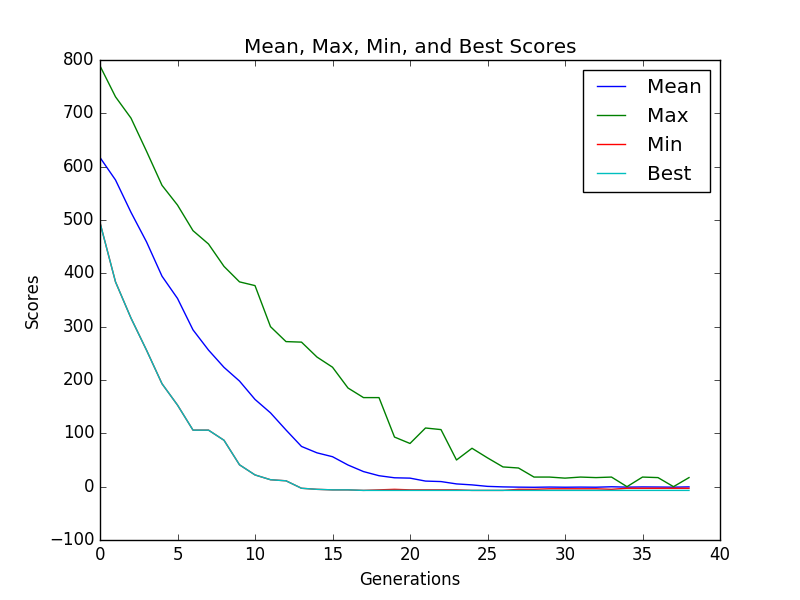
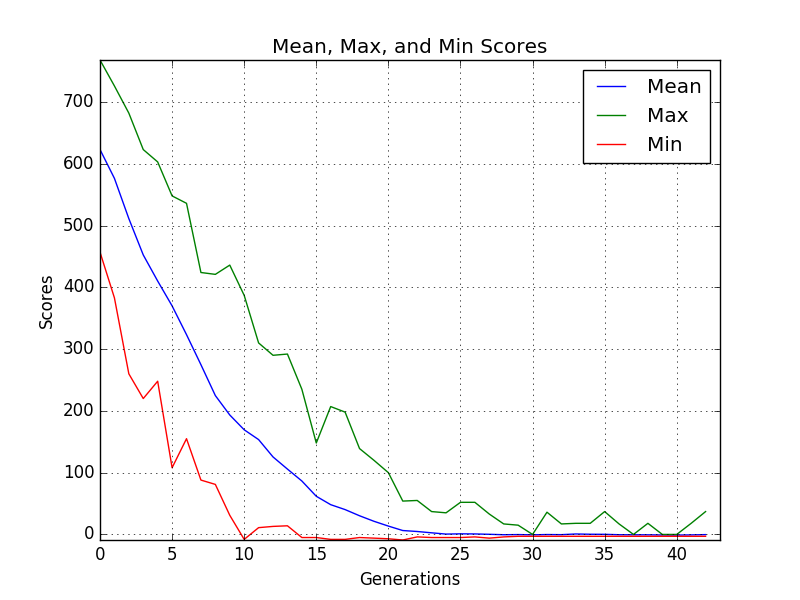
histograms and bar charts

diff --git a/Statistics.py b/Statistics.py
@@ -8,35 +8,58 @@ import matplotlib
 matplotlib.use('Agg')
 import matplotlib.pyplot as plt
 from GeneticAlgorithm import runit
+from Data import Data
 
-def sampler(test,runs=10):
+def sampler(test):
     _mean = []
     _max = []
     _min = []
     _best = []
     _times = []
+    _scores = []
     run_times, score_watch, best_perc = runit(test)
     for run_time, scores in zip(run_times,score_watch):
         _times.append(run_time)
         _mean.append(scores[2])
         _max.append(scores[3])
         _min.append(scores[1])
-    return _times, _mean, _max, _min, _best
+        _best.append(scores[0])
+        _scores.append(scores[4])
+    return _times, _mean, _max, _min, _best,_scores, best_perc
 
-def scatter(test,runs,prefix):
-    _times, _mean, _max, _min, _best = sampler(test,runs)
+def scatter(test):
+    _times, _mean, _max, _min, _best = sampler(test)
+    plt.figure()
     plt.plot(range(len(_times)),_mean)
     plt.plot(range(len(_times)),_max)
     plt.plot(range(len(_times)),_min)
-    plt.plot(range(len(_times)),_best)
-    plt.legend(["Mean","Max","Min","Best"])
-    plt.title("Mean, Max, Min, and Best Scores")
+    plt.xlim([0,len(_times)])
+    plt.ylim([min(_min),max(_max)])
+    plt.legend(["Mean","Max","Min"])
+    plt.title("Mean, Max, and Min Scores ({0})".format(test.upper()))
     plt.xlabel("Generations")
     plt.ylabel("Scores")
-    plt.savefig("scatter.png")
+    plt.grid(True)
+    plt.savefig("scatter_{0}.png".format(test))
+    plt.close()
 
-def score_histogram():
-    return
+def histogram(test):
+    _times, _mean, _max, _min, _best, _scores, best_perc = sampler(test)
+    f,a = plt.subplots(2,2)
+    a = a.ravel()
+    data = []
+    titles = []
+    for i in range(0,len(_times),len(_times)/4):
+        data.append(_scores[i])
+        titles.append("Generation {0}".format(i))
+    for idx,ax in enumerate(a):
+        ax.hist(data[idx])
+        ax.set_xlim([min(_min),max(_max)])
+        ax.set_title(titles[idx])
+        ax.set_xlabel("Density")
+        ax.set_ylabel("Scores")
+    plt.tight_layout()
+    plt.savefig("histogram_{0}.png".format(test))
 
 def vary_mutation():
     return
@@ -44,14 +67,53 @@ def vary_mutation():
 def vary_crossover():
     return
 
-def percentage_per_size():
-    return
+def percentage_bar(tests,runs=5,width=.35):
+    string_size = []
+    avg_perc = []
+    plt.figure()
+    for test in tests:
+        percs = []
+        string_size.append(len(Data("{0}.txt".format(test.lower())).getSequence()))
+        for run in xrange(runs):
+            _times, _mean, _max, _min, _best, _scores, perc = sampler(test)
+            percs.append(object)
+        avg_perc.append(mean(percs))
+        errors.append(numpy.std(percs))
+    plt.bar(range(len(string_size)),avg_perc, width, color='r', yerr=menStd)
+    plt.title("Accuracy (Percentage) vs. RNA Length")
+    plt.xticks(ind + width)
+    plt.xticklabels(string_size)
+    plt.ylabel("Percentage")
+    plt.xlabel("RNA Length")
 
-def time_with_size():
-    return
+def time_bar(tests,runs=5,width=.35):
+    string_size = []
+    avg_perc = []
+    plt.figure()
+    for test in tests:
+        percs = []
+        string_size.append(len(Data("{0}.txt".format(test.lower())).getSequence()))
+        for run in xrange(runs):
+            _times, _mean, _max, _min, _best, _scores, perc = sampler(test)
+            percs.append(object)
+        avg_perc.append(mean(percs))
+        errors.append(numpy.std(percs))
+    plt.bar(range(len(string_size)),avg_perc, width, color='r', yerr=menStd)
+    plt.title("Accuracy (Percentage) vs. RNA Length")
+    plt.xticks(ind + width)
+    plt.xticklabels(string_size)
+    plt.ylabel("Percentage")
+    plt.xlabel("RNA Length")
+
 
 def all_stats():
-    scatter("test6", 10, "test6")
+    tests = ["test6","test7","test4","test5"]
+    for test in tests:
+        #scatter(test)
+        #histogram(test)
+    percentage_bar(test)
+    time_bar(test)
+
 
 if __name__ == '__main__':
     all_stats()

diff --git a/GeneticAlgorithm.py b/GeneticAlgorithm.py
@@ -12,7 +12,7 @@ import time
 import argparse
 
 class GeneticAlgorithm(object):
-    def __init__(self,domain,fitness,crossover=0.5,mutation=0.1,popSize=100,maxIter=600,maxUnchanged=500,tol=0.00001):
+    def __init__(self,domain,fitness,crossover=0.5,mutation=0.1,popSize=50,maxIter=600,maxUnchanged=10,tol=0.00001):
         self.mutation = mutation
         self.crossover = crossover
         self.popSize = popSize
@@ -114,7 +114,7 @@ class GeneticAlgorithm(object):
             self.fittestChild = bestChild
         self.avgScore = numpy.mean(scores)
         print "Generation {2} Current Minimum: {0}, Average Score {1}".format(self.bestScore,self.avgScore,self.currentGeneration),
-        return self.bestScore,minScore, self.avgScore, max(scores)
+        return self.bestScore,minScore, self.avgScore, max(scores), scores
 
     def nextGeneration(self):
         nextPop = []
@@ -156,7 +156,7 @@ class GeneticAlgorithm(object):
             last_best = self.bestScore
         return self.bestScore, self.fittestChild
 
-def runit(test,crossover=0.7,mutation=0.1,iterations=600,unchanged=20,draw=False):
+def runit(test,crossover=0.7,mutation=0.1,iterations=600,unchanged=10,population=50,draw=False):
     testcase = test
     print("**PREDICTING RNA SECONDARY STRUCTURE**")
     data = Data.Data("{0}.txt".format(testcase))
@@ -166,6 +166,7 @@ def runit(test,crossover=0.7,mutation=0.1,iterations=600,unchanged=20,draw=False
                                  crossover=crossover,
                                  mutation=mutation,
                                  maxIter=iterations,
+                                 popSize=population,
                                  maxUnchanged=unchanged)
     bestScore, structure = algorithm.run()
     run_times = algorithm.run_times
@@ -184,6 +185,7 @@ if __name__ == '__main__':
     parser.add_argument('-m',type=float,dest='mutation',default=0.1)
     parser.add_argument('-c',type=float,dest='crossover',default=0.7)
     parser.add_argument('-i',type=int,dest='iterations',default=600)
-    parser.add_argument('-u',type=int,dest='unchanged',default=50)
+    parser.add_argument('-u',type=int,dest='unchanged',default=10)
+    parser.add_argument('-p',type=int,dest='population',default=50)
     args = parser.parse_args()
-    runit(args.test,args.crossover,args.mutation,args.iterations,args.unchanged,args.draw)
+    runit(args.test,args.crossover,args.mutation,args.iterations,args.unchanged,args.population,args.draw)
